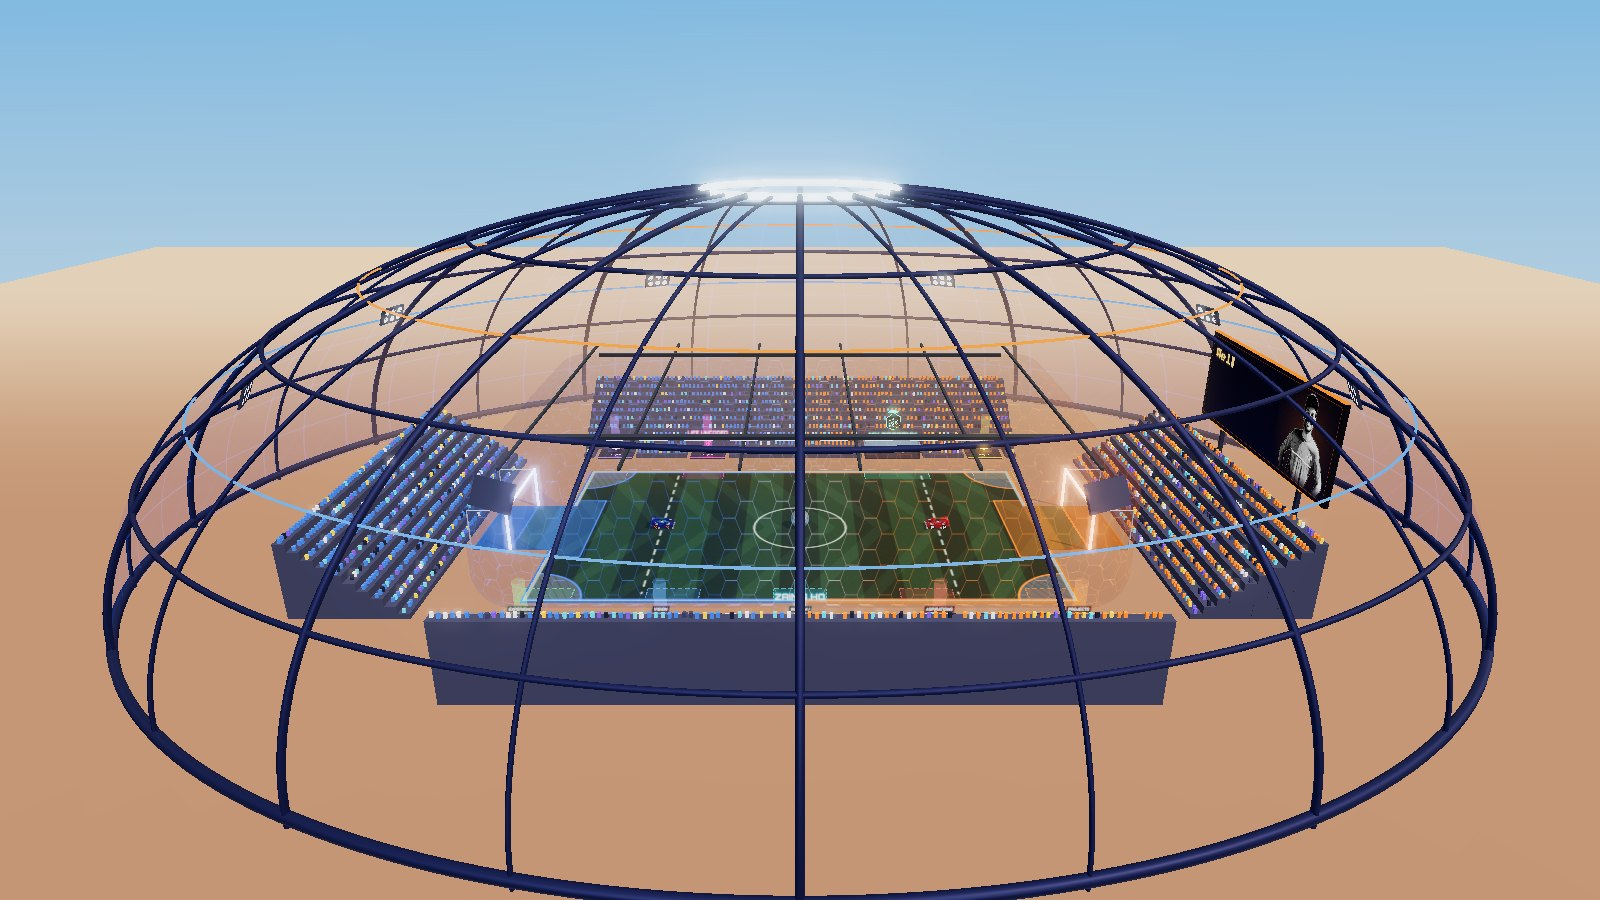
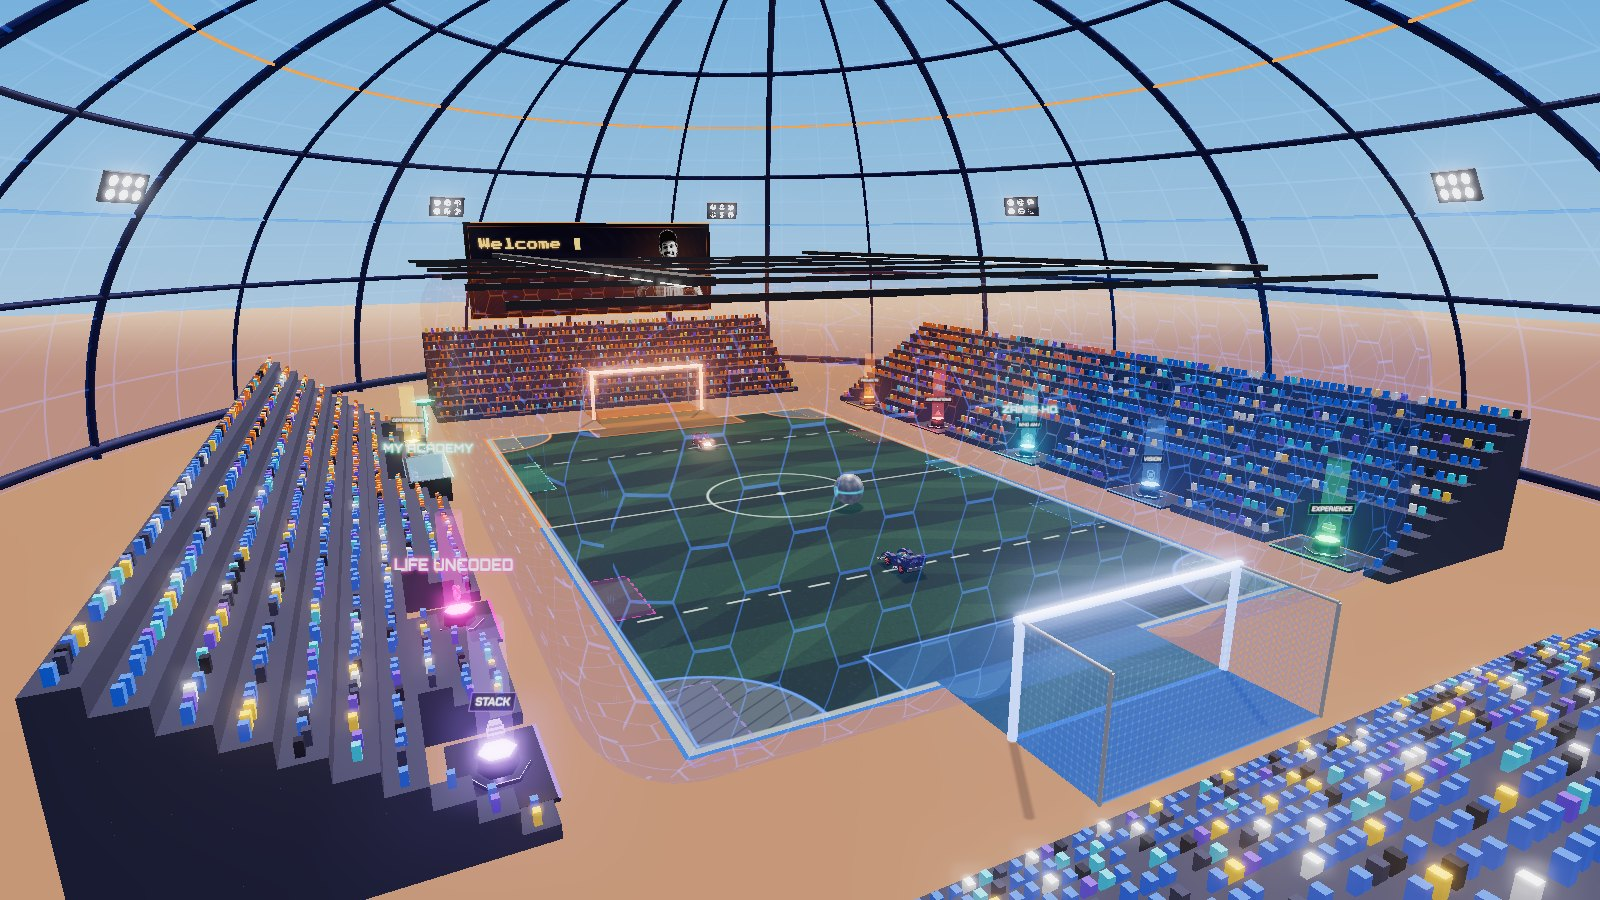
Beyond: better arena shot from under the dome

diff --git a/js/data.js b/js/data.js
@@ -218,7 +218,7 @@ export const BEYOND = [
     items: [
       { q: 'A Rocket League arena, driven by my desk toy', compare: 'assets/life/beyond-real-vs-game.jpg',
         shots: [
-          { src: 'assets/life/arena-dome-outside.jpg', alt: 'The arena from outside: a glass dome with steel ribs over the pitch, stands and big screen' },
+          { src: 'assets/life/arena-dome-outside.jpg', alt: 'The arena from just under the glass dome: the pitch, both goals, the podium booths, the crowd and the big screen' },
           { src: 'assets/life/arena-dome-inside.jpg', alt: 'Inside the dome: the neon pitch, glowing podiums along the glass walls and the big screen behind the goal' },
         ],
         a: "Wanted to put Opus to work, so I asked it to build me a Rocket League-style video game. It made me this cracker of a thing anyway: my purple desk-toy Mini 4WD rebuilt in 3D, a glass-domed stadium, a red bot that takes 90 second matches far too seriously, and, somewhere between the goals, my actual work behind glowing podiums.",
